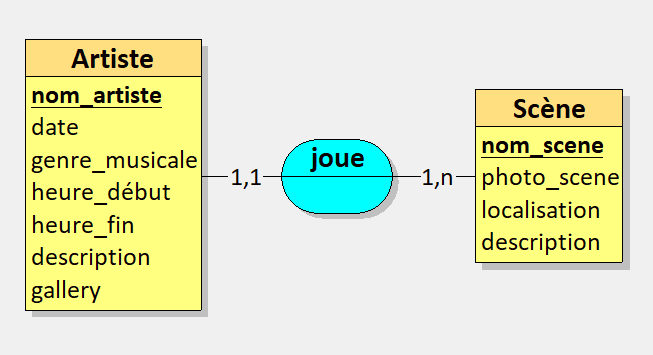
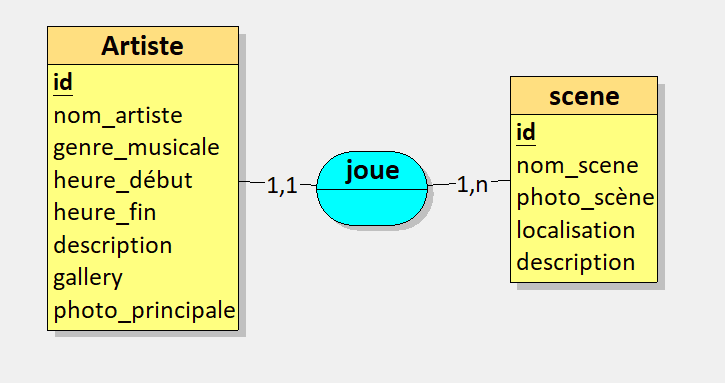
commit finale

Changed region(s): [[0.0306, 0.062, 0.9801, 0.8986]]

diff --git a/README.md b/README.md
@@ -1,6 +1,10 @@
 [![Review Assignment Due Date](https://classroom.github.com/assets/deadline-readme-button-22041afd0340ce965d47ae6ef1cefeee28c7c493a6346c4f15d667ab976d596c.svg)](https://classroom.github.com/a/QH_p-_Ks)
 - Nom: Girardin Tarby
 - Prénom: Mathéo
-- url: 
+- url: https://app-fanfa-comtoise.girardin-tarby.fr
 
 ![Rendu MCD](MCD_SAE203.png)
+
+Lien pocketbase: https://fanfa-comtoise.girardin-tarby.fr/_/
+ID superusers : matheo.girardin--tarby@edu.univ-fcomte.fr
+Mdp superusers : M@theo90
